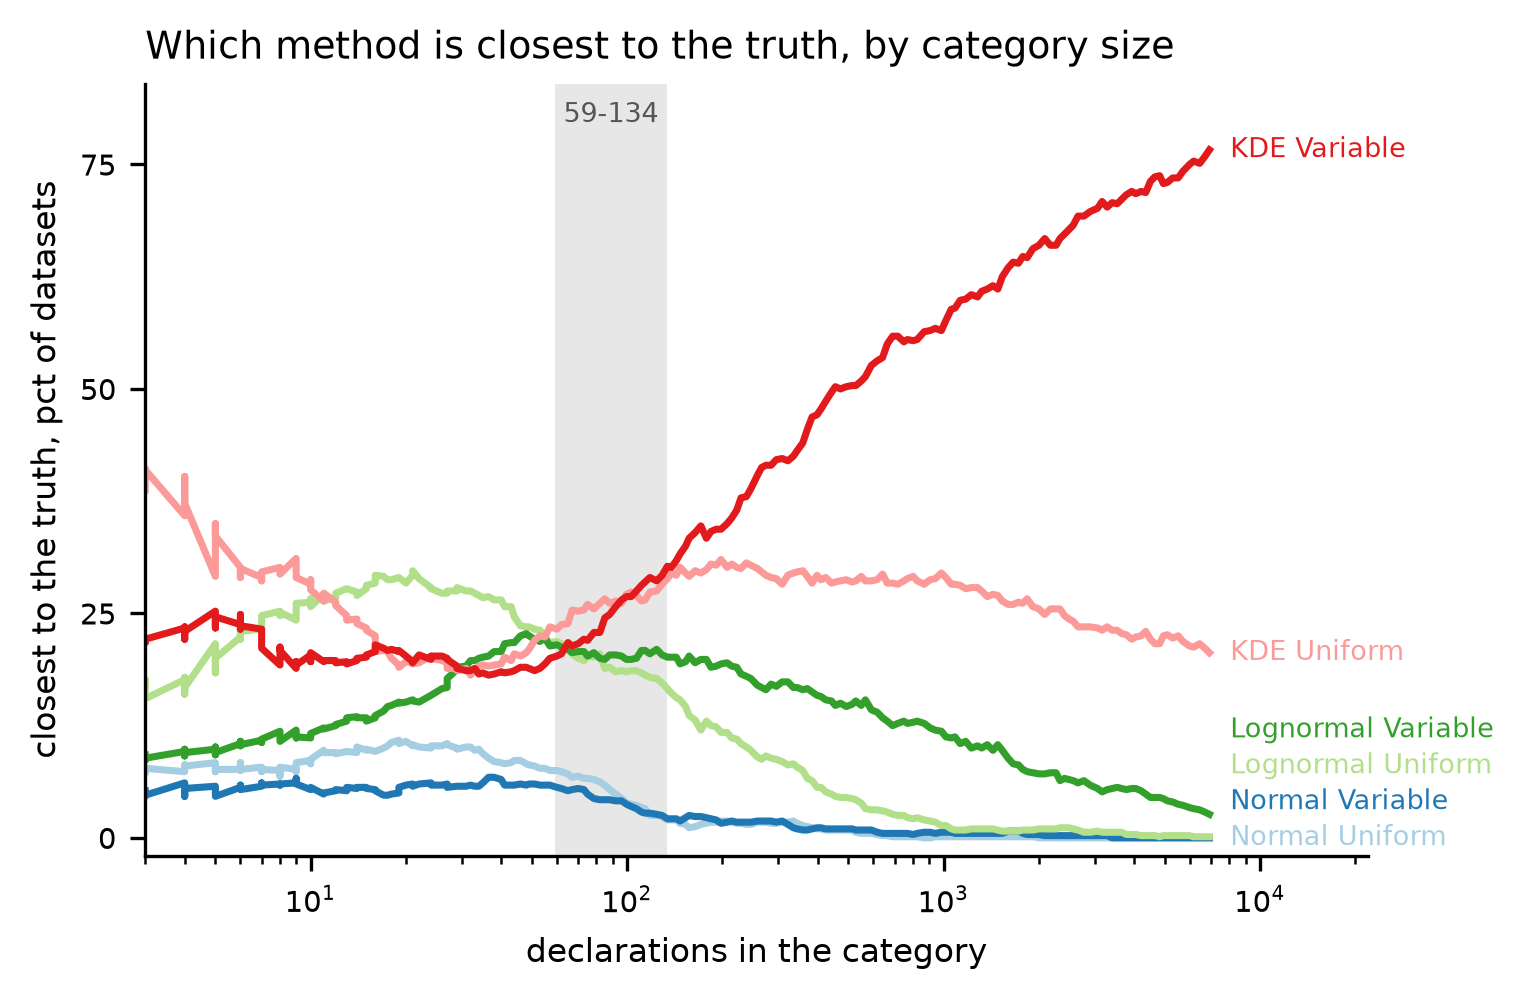
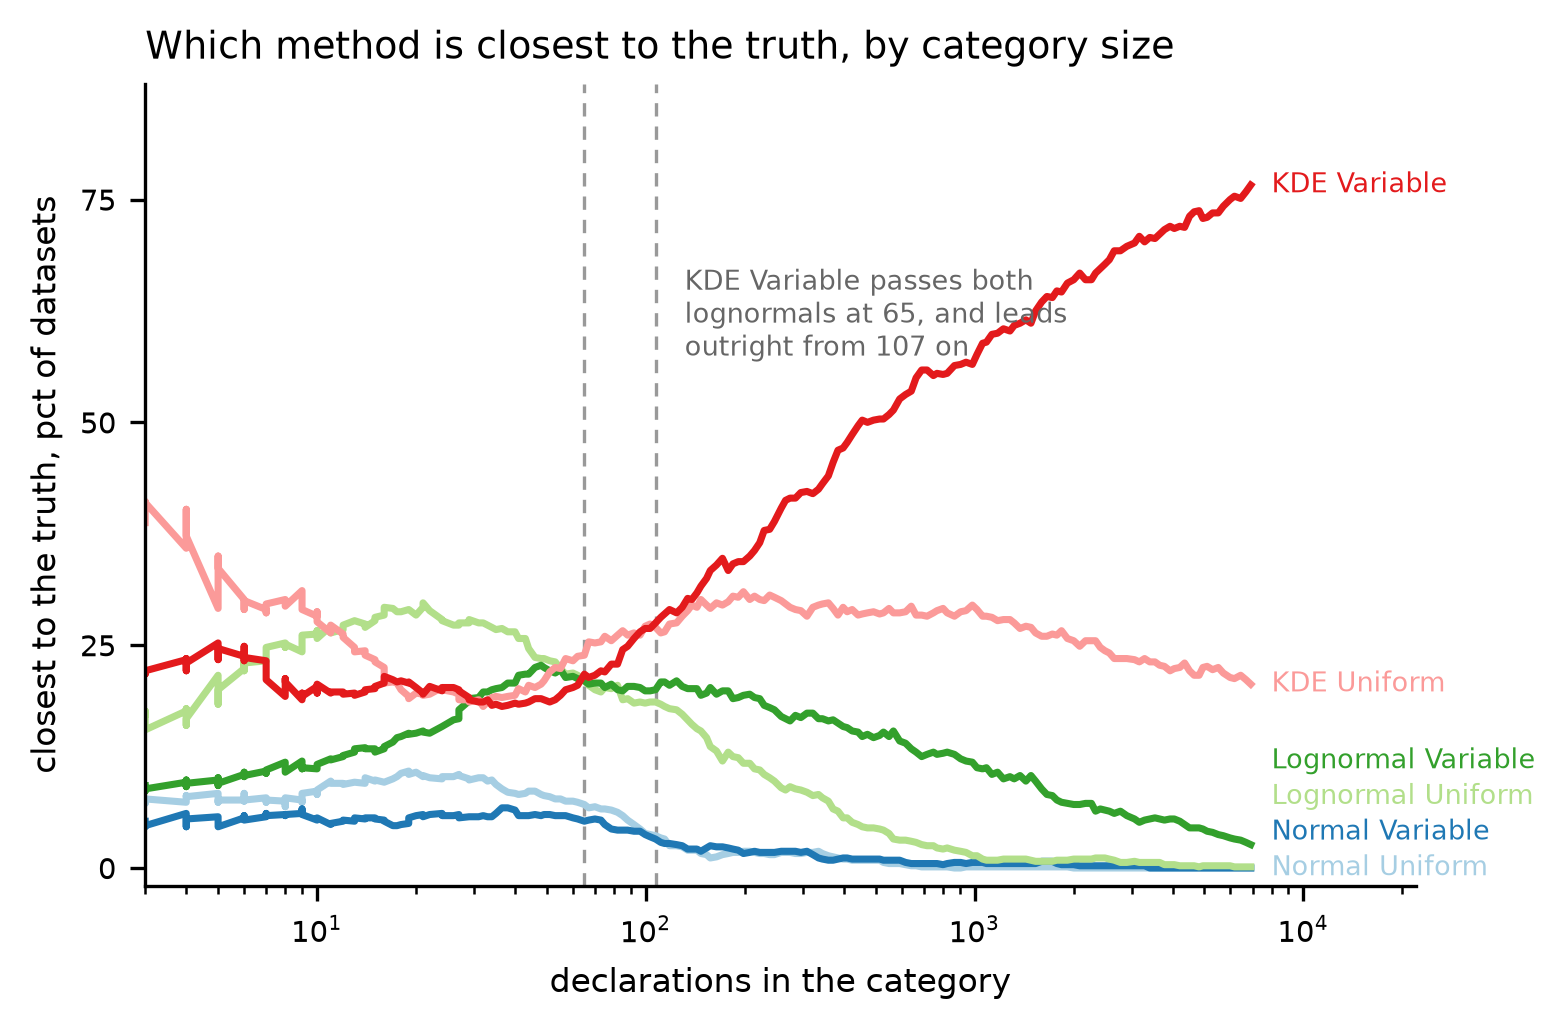
Mark the curves' own crossings, and ask what helps once size is known
FIGURE A no longer shades 59 to 134. That band came from the cost curve of a
policy the panel does not draw, so it answered a different question from the
one shown -- and across most of it the kernel estimate with market-share
weights is already ahead of both lognormals, which is what the author noticed.
Two dashed lines now mark crossings read off the curves themselves: it passes
both lognormals at 65 and leads outright from 107, never losing the lead again.

FIGURE B asked the wrong question twice and this is the third version. A
selection path put order on the x axis; a standalone-value chart left a reader
unable to tell whether the study needs six numbers or one, and appeared to
contradict figure A. Both are replaced by what each characteristic adds ONCE
DATASET SIZE IS KNOWN, which is what the practitioner rule turns on. Under
market-share weights the count alone reaches 0.471 and nothing else adds a
seventh of it, best being dispersion at +0.054. The two figures now agree.

The one large bar, +0.153 under equal weights, is the equal-versus-market
distance -- a property of the weights, needing the market shares a practitioner
does not have -- so the rule stays one number. 'Held-out data' is gone from the
caption in favour of plain words.

Also fixed: the handoff captions still described three panels, and figure B was
reading an in-memory frame instead of its table, which broke both the renderer
and the rule that figures come from tables.
[…]

diff --git a/reports/HANDOFF_stage-2f.md b/reports/HANDOFF_stage-2f.md
@@ -336,39 +336,36 @@ than a fact about markets.
 
 ## The two figures
 
-![Which method, and when](../outputs/figures/CompareUQMethods_FIG_WhenToUseWhich.png)
+![Which method is closest, by category size](../outputs/figures/CompareUQMethods_FIG_WhenToUseWhich.png)
 
-**Figure A. Left:** the share of datasets on which a kernel density estimate is
-closer to the truth than a three-parameter lognormal, against the number of
-declarations, with a bootstrap band. It starts at 62.6 percent at three to nine
-declarations, dips below half between about 10 and 55, and rises to 86.5
-percent under equal weights and 96.8 percent under market-share weights. The
-grey band marks 59 to 134 declarations. **Middle:** the cost of a
-"kernel estimate above the cutoff, lognormal below" rule against the best
-choice that could be made per dataset, as the cutoff moves. The minimum is 38.4
-percent at 75 declarations and the curve is flat from 59 to 134, which is what
-licenses quoting a round hundred. Always using a kernel estimate costs 53.6
-percent; always using a lognormal costs 178.5 percent. **Right:** which of the
-six methods is actually closest, by size band. The kernel estimate with equal
-weights leads below ten declarations, the lognormal with equal weights from ten
-to ninety-nine, and the kernel estimate with market-share weights above a
-hundred, reaching 69.6 percent.
+**Figure A.** The share of the 10,000 synthetic datasets on which each of the
+six methods comes closest to the true distribution, against how many
+declarations the category holds, on a continuous size axis rather than in
+bands. Each curve is a local share over a sliding window holding the same
+number of datasets at every position, so it does not get noisier where the data
+thin out. **A kernel estimate under equal weights leads below about twelve
+declarations; a lognormal under equal weights leads from there to about fifty;
+the kernel estimate with market-share weights passes both lognormals at 65 and
+takes the lead outright from 107 on, reaching 77 percent at the top of the
+range.** The two dashed lines mark those crossings and are read directly off
+the curves. **Both normal fits run flat along the bottom, under 12 percent
+everywhere and effectively zero above a few hundred declarations** -- the
+clearest negative result in the study.
 
-![What else changes the answer](../outputs/figures/CompareUQMethods_FIG_ChoiceDrivers.png)
+![What else helps once you know the size](../outputs/figures/CompareUQMethods_FIG_ChoiceDrivers.png)
 
-**Figure B.** How much each characteristic improves a prediction of which
-method fits better, measured on data the model has not seen, once dataset size
-and dispersion are already accounted for. Bars in orange are the ones kept once
-everything already chosen is in the model; the whisker is the spread across
-folds, and a bar shorter than its whisker is not an effect. **Left, equal
-weights:** one characteristic stands out, the distance between the
-equal-weighted and market-share-weighted versions of the same dataset, at
-+0.170; everything else is at or below 0.003. **Right, market-share weights:**
-the shift in the average leads at +0.034, then the weight carried by outliers
-at +0.026 and the visible mode count at +0.019. **All of these are small**
-against baselines of 0.280 and 0.525, which is the point: once you know how
-many declarations there are and how spread out they are, little else changes
-the answer.
+**Figure B.** How much each characteristic adds to predicting which of the
+kernel estimate and the lognormal fits better, **once the number of
+declarations is already known**. The orange line is what the count achieves on
+its own: **0.23 under equal weights and 0.47 under market-share weights**, as a
+share of the variation explained on datasets the model was not fitted to. Bars
+are the extra each characteristic buys on top of it, with the spread across
+folds. **Under market-share weights nothing reaches a seventh of the orange
+line** -- the best is dispersion at 0.054 -- so counting declarations is most
+of the answer and the practitioner rule stays one number. **The single large
+bar under equal weights, 0.153, is a property of the WEIGHTS and not of the
+data**: it is how far market weighting moves the category's distribution, which
+needs the market shares, which is precisely what a practitioner does not have.
 
 ## 1. Stage and branch
 
